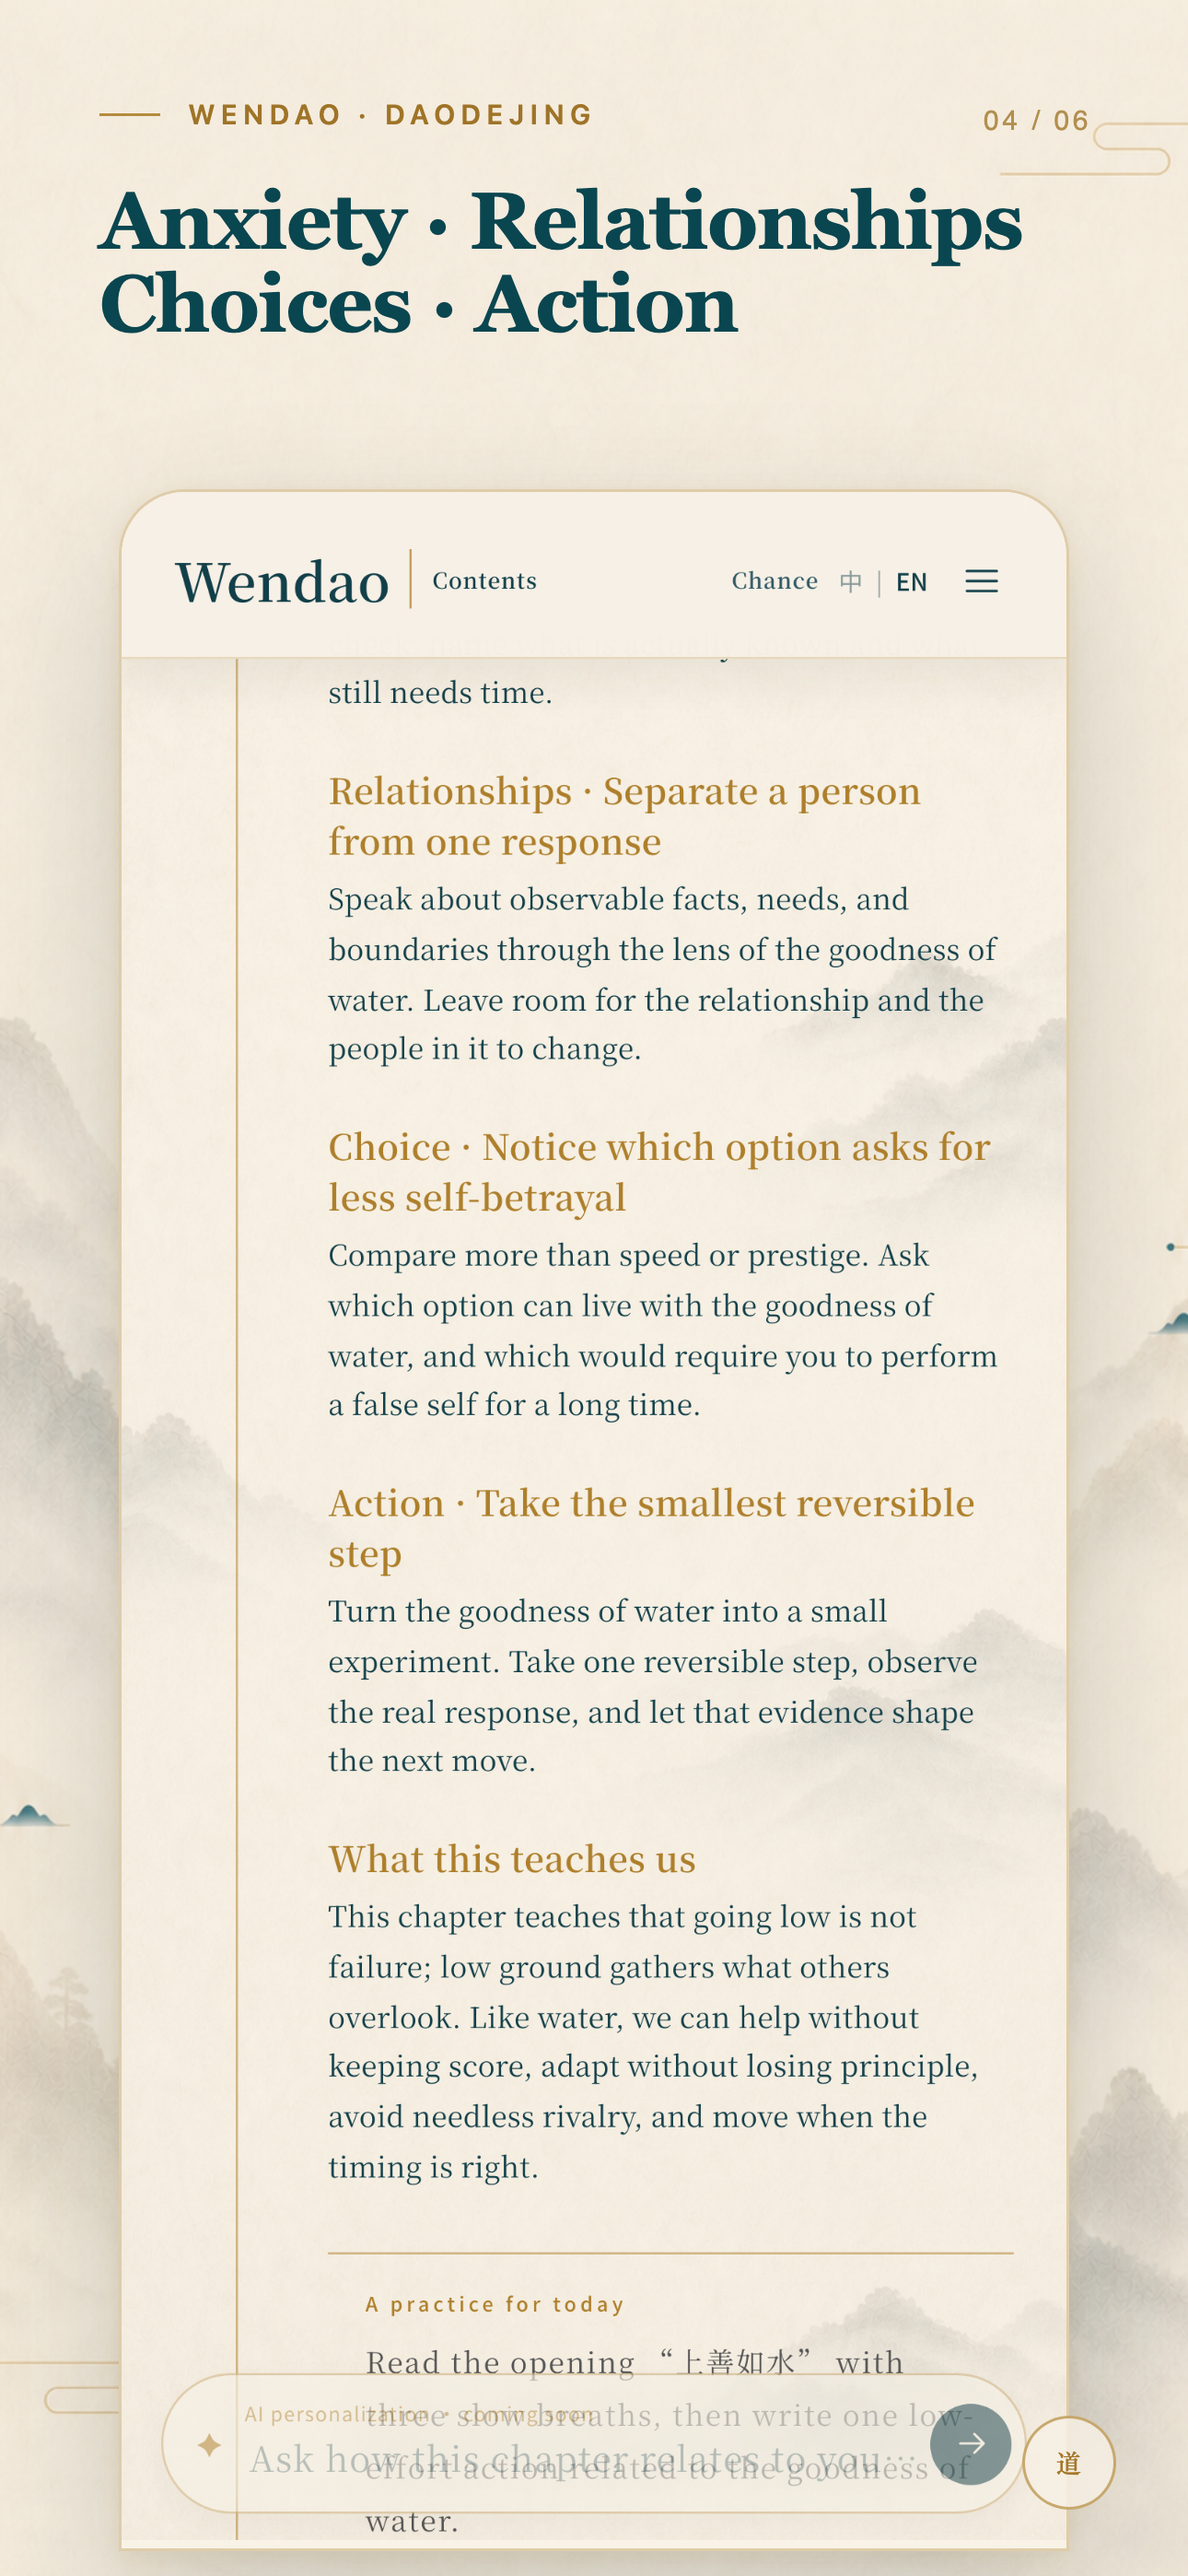
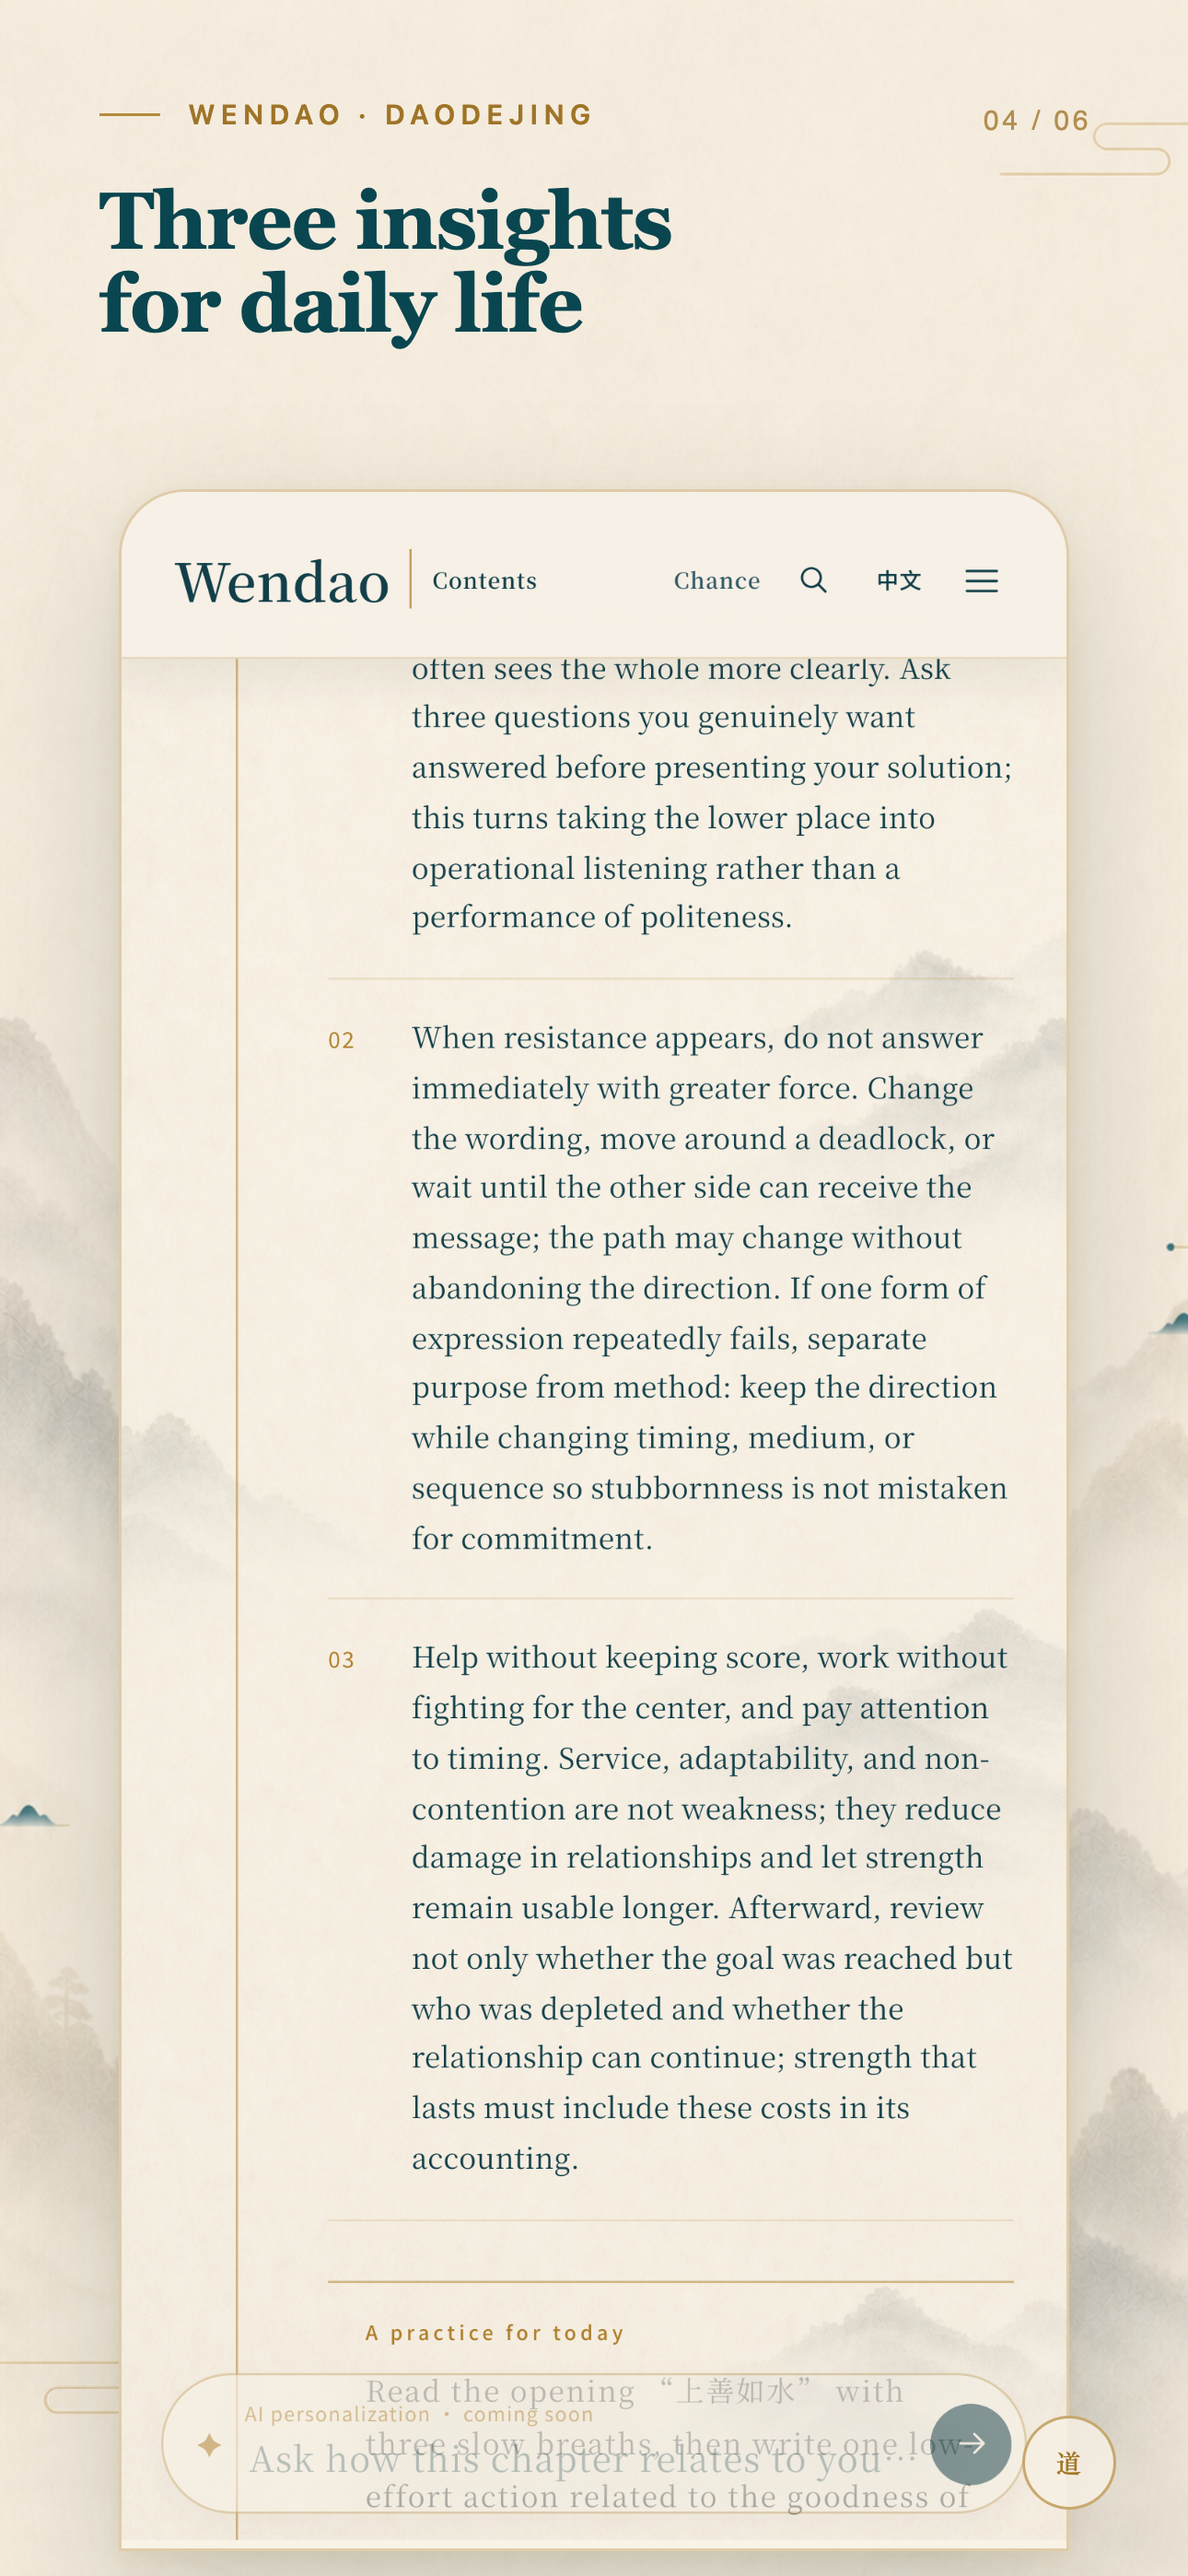
Refresh App Store release materials

Changed region(s): [[0.2791, 0.2178, 0.8372, 0.9957], [0.093, 0.0622, 0.8682, 0.1556], [0.7442, 0.2178, 0.7752, 0.2489]]

diff --git a/docs/app-store/review-notes.md b/docs/app-store/review-notes.md
@@ -4,11 +4,13 @@
 
 Wendao is a bilingual Daodejing reading app. No login is required. All 81 chapters and the core reading interface are bundled locally and remain available offline.
 
-Optional network features are found in the More drawer: Life Manual, questions, and feedback. Life Manual asks the user to voluntarily enter a name, birth date, exact birth time, and birthplace. It returns a concise Human Design summary combined with the theme of the current chapter. It does not render a BodyGraph and does not provide medical, psychological, legal, financial, or deterministic advice.
+Optional network features are found in the More drawer: Life Manual, questions, and feedback. Life Manual asks the user to voluntarily enter a name, birth date, exact birth time, and birthplace. It returns a foundational reading and 12 detailed reflective themes, and combines the verified summary with the theme of the current chapter. It does not render a BodyGraph and does not provide medical, psychological, legal, financial, or deterministic advice.
 
-The bottom question composer is clearly labeled as a preview until the large-model service is connected. It does not sell digital content and does not direct users to external payment. Version 1.0 contains no login, advertising, in-app purchase, or external payment.
+The bottom question composer is clearly labeled as a preview until the large-model service is connected. The More drawer also links to four separate, free public projects by the same creator; these are informational links and do not sell or unlock content in Wendao. The native iOS build hides the optional web appreciation-payment entry. Version 1.0 contains no login, advertising, in-app purchase, or external payment inside the app.
 
 The app uses only standard HTTPS encryption. `ITSAppUsesNonExemptEncryption` is set to false.
+
+China mainland has been removed from App availability. This version is configured for distribution in 174 other countries and regions and will not be distributed in China mainland.
 
 Suggested review path:
 
@@ -21,6 +23,8 @@ Suggested review path:
 
 三慢问道是一款中英文《道德经》阅读 App，无需登录。完整 81 章及核心阅读界面随 App 本地打包，可离线使用。
 
-“更多”抽屉中包含自愿使用的联网功能：人生说明书、提问与反馈。人生说明书会在用户主动输入称呼、出生日期、准确时间和出生地点后，返回简要的人类图摘要，并与当前章节主题结合。应用不绘制 BodyGraph，不提供医疗、心理、法律、财务或确定性的命运判断。
+“更多”抽屉中包含自愿使用的联网功能：人生说明书、提问与反馈。人生说明书会在用户主动输入称呼、出生日期、准确时间和出生地点后，返回基础解读与 12 个详细的自我观察主题，并与当前章节主题结合。应用不绘制 BodyGraph，不提供医疗、心理、法律、财务或确定性的命运判断。
 
-底部提问入口在大模型服务接入前明确标注为体验版。1.0 版不含登录、广告、App 内购买或外部支付，也不引导用户在外部购买数字内容。
+底部提问入口在大模型服务接入前明确标注为体验版。“沿途所作”中的四个链接是同一创作者的独立免费公开项目，不用于购买或解锁三慢问道内容；iOS 原生版已隐藏网页中的随喜支付入口。1.0 版不含登录、广告、App 内购买或 App 内外部支付。
+
+中国大陆已从 App 供应范围移除；本版本仅在其余 174 个国家和地区分发，不在中国大陆 App Store 上架。

diff --git a/docs/app-store/metadata/en-US.md b/docs/app-store/metadata/en-US.md
@@ -22,10 +22,10 @@ With Wendao, you can:
 
 - Read all 81 received chapter numbers through contents, full-text search, chance selection, and continuous reading;
 - Follow tone-marked pinyin and a line-by-line modern translation;
-- See each chapter through anxiety, relationships, choices, and action;
+- Read a distinct chapter theme and three detailed practical insights explaining why the reminder matters, where it appears, and how to respond;
 - Turn reflection into one small, practical daily exercise;
 - Switch between day and night reading and choose a comfortable text size;
-- Optionally create a Life Manual that connects verified profile information with the distinct theme of each chapter.
+- Optionally create a Life Manual whose foundational reading and 12 detailed themes reflect type, strategy, authority, profile, and definition.
 
 All 81 chapters and the core reading interface are bundled with the app, so no account is needed for offline reading. The optional Life Manual, questions, and feedback use network services only when you choose them. Their guidance is reflective, not medical, psychological, legal, or deterministic advice.
 
@@ -37,4 +37,4 @@ True to yourself. Flow with life.
 
 ## What's New in Version 1.0
 
-The first App Store release: all 81 chapters offline, a Silk B based reading, line-by-line meaning, full-text search, bilingual reading, day and night modes, and native sharing.
+The first App Store release: all 81 chapters offline, a Silk B based reading, line-by-line meaning, three practical insights per chapter, a differentiated Life Manual, full-text search, bilingual reading, day and night modes, and native sharing.

diff --git a/docs/app-store/metadata/zh-Hans.md b/docs/app-store/metadata/zh-Hans.md
@@ -21,11 +21,11 @@
 你可以：
 
 - 完整阅读今本 81 章，目录、搜索、偶遇一章与连续阅读互相贯通；
-- 查看带声调拼音、逐句今译、思想结构和章节主题；
-- 从焦虑、关系、选择与行动四个生活视角重新理解一章；
+- 查看带声调拼音、逐句今译、现代解读与每章不同的本章主旨；
+- 阅读每章三条详细的“对我们的启发”，理解提醒为何重要、何时会遇到，以及可以怎样回应；
 - 用低负担的“今日一练”，把阅读变成当下可做的一步；
 - 在日间与夜间模式之间切换，并调节适合自己的正文字号；
-- 在选择提供出生资料后，获得与章节主题结合的“人生说明书”反思提示。
+- 在选择提供出生资料后，获得由类型、策略、权威、人生角色与定义共同形成的“人生说明书”，并阅读 12 个更具体的自我观察主题。
 
 核心 81 章及阅读界面已随 App 打包，无需登录即可离线阅读。人生说明书、提问与反馈属于自愿使用的联网功能；相关提示用于自我观察，不构成医疗、心理、法律或命运判断。
 
@@ -37,4 +37,4 @@
 
 ## 版本 1.0 更新说明
 
-首个 App Store 版本：完整 81 章离线阅读、帛书乙本底本校读、逐句今译、全文搜索、中英文切换、日夜模式与原生分享。
+首个 App Store 版本：完整 81 章离线阅读、帛书乙本底本校读、逐句今译、每章三条生活启发、差异化人生说明书、全文搜索、中英文切换、日夜模式与原生分享。

diff --git a/docs/app-store/screenshot-copy.md b/docs/app-store/screenshot-copy.md
@@ -7,8 +7,8 @@
 | 01 | 慢下来，读一章《道德经》 | Slow down with one chapter | 第八章原文、拼音与版本分层 |
 | 02 | 帛书乙本底本校读 | A Silk B based reading | 乙本转写、校读正文与版本说明 |
 | 03 | 逐字拼音，逐句今译 | Pinyin and line-by-line meaning | 完整逐句今译 |
-| 04 | 焦虑、关系、选择、行动 | Anxiety, relationships, choices, action | 与你有关、对我们的启发 |
+| 04 | 每章三条启发，落到当下生活 | Three insights for daily life | 与你有关、三条详细启发 |
 | 05 | 完整 81 章，离线也能读 | All 81 chapters, available offline | 目录与全文搜索 |
-| 06 | 认识自己，如水而行 | Know yourself. Move like water. | 人生说明书与提问功能预告 |
+| 06 | 人生说明书，因你的结构而不同 | A Life Manual shaped by your design | 已生成的详细解读与个性化练习 |
 
 制作约束：真实 App 界面必须保持可辨认，不虚构按钮或功能；外层海报沿用三慢问道的宣纸、淡墨山水、古金与深青配色，不复用 Style Atlas 的品牌资产。
